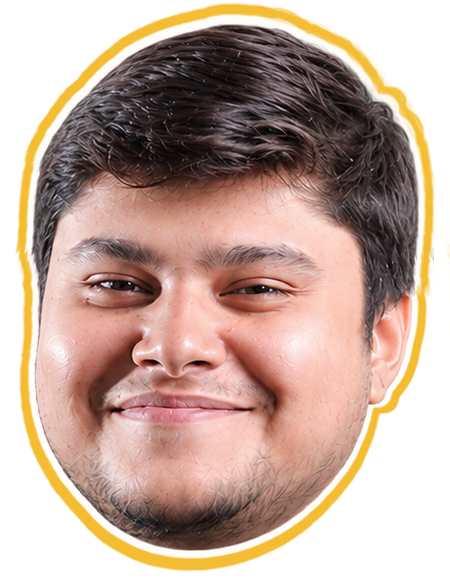
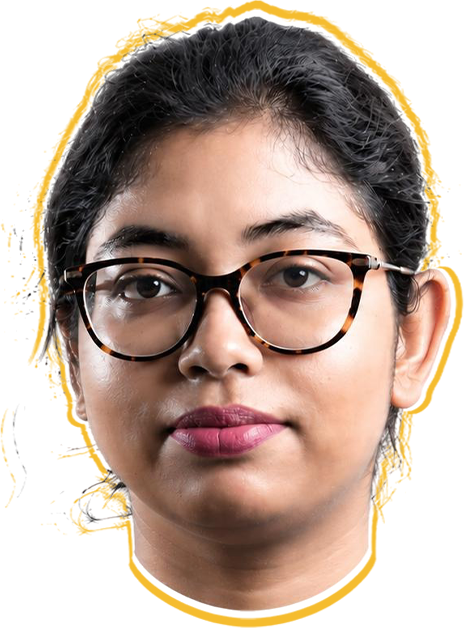
Home page: add three more headshots to the team row
h3, h6 and h7 join h1/h2/h4/h5, so the row is seven of the eight faces
the layout is sized for. Both copies of the row are updated: the static
overlapped stack on desktop, and the looping strip that replaces it
below 991px.

Two CSS changes come with it, neither optional.

The reveal stagger is written out one child at a time and stopped at
nth-child(5), so faces 6 and 7 fell back to delay 0 and arrived before
the staggered row instead of after it. Added at 1.12s and 1.22s.

The marquee duration moves 80s -> 105s. The loop slides the track by
-50%, so one half has to be wider than the visible strip or a gap gets
dragged into view. A set of seven is 518px and the strip is 1047px at
its widest (991px viewport plus the 2 x 28px negative margin that bleeds
it past the card), so two sets would miss by 11px — hence six sets, three
per half, 1554px. 105s holds the original 14.8px/s, so it moves at the
speed it always did.

Verified at 1920/1280/991/768/375: seven faces on one row, 525px fanned
inside a 972px card, and the two halves of the marquee are byte-identical
with the frame before the wrap landing every face on its starting pixel.

Also carries a stray object-fit/semicolon fix in the .wokImg block.

diff --git a/index.html b/index.html
@@ -3806,19 +3806,30 @@
                                      .mh-card-box:hover in main.css). It is sized for up to
                                      eight: 474px resting, 600px hovered, inside a 700px card.
 
-                                     FIVE of the eight are here. assets/images/ holds exactly
-                                     h1-h5 in this cut-out treatment and nothing else — the
-                                     other three faces have no artwork yet. Drop h6/h7/h8.png
-                                     in beside these and add three more <img> lines; no CSS
-                                     change is needed, the row already has the room. -->
+                                     SEVEN of the eight are here — h1-h7, every face that
+                                     exists in this cut-out treatment. An eighth still fits
+                                     (474px resting / 600px hovered inside the 700px card);
+                                     drop h8.png in beside these and add one more <img>.
+
+                                     IF YOU DO, add a `.mh-section.mh-anim .mh-avatars >
+                                     :nth-child(8)` delay in main.css alongside 1-7. Those
+                                     delays are written out one child at a time, so a face
+                                     with no rule of its own gets delay 0 and pops in ahead
+                                     of the staggered row instead of after it. -->
                                 <div class="mh-avatars">
                                     <img src="assets/images/h1.png" alt="" loading="lazy" width="56" height="56"
                                         decoding="async">
                                     <img src="assets/images/h2.png" alt="" loading="lazy" width="56" height="56"
                                         decoding="async">
+                                    <img src="assets/images/h3.png" alt="" loading="lazy" width="56" height="56"
+                                        decoding="async">
                                     <img src="assets/images/h4.png" alt="" loading="lazy" width="56" height="56"
                                         decoding="async">
                                     <img src="assets/images/h5.png" alt="" loading="lazy" width="56" height="56"
+                                        decoding="async">
+                                    <img src="assets/images/h6.png" alt="" loading="lazy" width="56" height="56"
+                                        decoding="async">
+                                    <img src="assets/images/h7.png" alt="" loading="lazy" width="56" height="56"
                                         decoding="async">
                                 </div>
 
@@ -3836,74 +3847,108 @@
                                      clipped off to the right, so lazy loading never fires for
                                      them — the boxes reserve correctly and the pictures stay
                                      blank, which reads as the loop being cut off after the
-                                     first few faces. Costs nothing extra: only four distinct
+                                     first few faces. Costs nothing extra: only seven distinct
                                      files are referenced here however many times they appear,
-                                     and below 991px this strip is the only copy on the page. -->
+                                     and below 991px this strip is the only copy on the page.
+
+                                     SIX sets of seven faces, and the count is not free to
+                                     change. The loop slides the track by -50%, so the two
+                                     halves have to be identical — an ODD number of sets puts
+                                     a seam mid-set and the faces jump. Three sets per half
+                                     is also the floor: at 64px + 10px each, a set is 518px,
+                                     and one half has to cover the widest this strip ever
+                                     gets — 991px of viewport plus 2 x 28px of negative
+                                     margin bleeding it past the card, so 1047px. Two sets
+                                     (1036px) is 11px short of that and drags a gap into
+                                     view; three (1554px) clears it. Change the set count
+                                     and the 105s duration in main.css moves with it. -->
                                 <div class="mh-avatars-marquee" aria-hidden="true">
                                     <div class="mh-avatars-marquee__track">
+                                        <!-- half one: sets 1-3 -->
                                         <img src="assets/images/h1.png" alt="" loading="eager" width="56" height="56"
                                             decoding="async">
                                         <img src="assets/images/h2.png" alt="" loading="eager" width="56" height="56"
+                                            decoding="async">
+                                        <img src="assets/images/h3.png" alt="" loading="eager" width="56" height="56"
                                             decoding="async">
                                         <img src="assets/images/h4.png" alt="" loading="eager" width="56" height="56"
                                             decoding="async">
                                         <img src="assets/images/h5.png" alt="" loading="eager" width="56" height="56"
                                             decoding="async">
-                                        <img src="assets/images/h1.png" alt="" loading="eager" width="56" height="56"
+                                        <img src="assets/images/h6.png" alt="" loading="eager" width="56" height="56"
                                             decoding="async">
-                                        <img src="assets/images/h2.png" alt="" loading="eager" width="56" height="56"
-                                            decoding="async">
-                                        <img src="assets/images/h4.png" alt="" loading="eager" width="56" height="56"
-                                            decoding="async">
-                                        <img src="assets/images/h5.png" alt="" loading="eager" width="56" height="56"
+                                        <img src="assets/images/h7.png" alt="" loading="eager" width="56" height="56"
                                             decoding="async">
                                         <img src="assets/images/h1.png" alt="" loading="eager" width="56" height="56"
                                             decoding="async">
                                         <img src="assets/images/h2.png" alt="" loading="eager" width="56" height="56"
                                             decoding="async">
+                                        <img src="assets/images/h3.png" alt="" loading="eager" width="56" height="56"
+                                            decoding="async">
                                         <img src="assets/images/h4.png" alt="" loading="eager" width="56" height="56"
                                             decoding="async">
                                         <img src="assets/images/h5.png" alt="" loading="eager" width="56" height="56"
+                                            decoding="async">
+                                        <img src="assets/images/h6.png" alt="" loading="eager" width="56" height="56"
+                                            decoding="async">
+                                        <img src="assets/images/h7.png" alt="" loading="eager" width="56" height="56"
                                             decoding="async">
                                         <img src="assets/images/h1.png" alt="" loading="eager" width="56" height="56"
                                             decoding="async">
                                         <img src="assets/images/h2.png" alt="" loading="eager" width="56" height="56"
                                             decoding="async">
+                                        <img src="assets/images/h3.png" alt="" loading="eager" width="56" height="56"
+                                            decoding="async">
                                         <img src="assets/images/h4.png" alt="" loading="eager" width="56" height="56"
                                             decoding="async">
                                         <img src="assets/images/h5.png" alt="" loading="eager" width="56" height="56"
+                                            decoding="async">
+                                        <img src="assets/images/h6.png" alt="" loading="eager" width="56" height="56"
+                                            decoding="async">
+                                        <img src="assets/images/h7.png" alt="" loading="eager" width="56" height="56"
+                                            decoding="async">
+                                        <!-- half two: identical to half one, so -50% lands seamlessly -->
+                                        <img src="assets/images/h1.png" alt="" loading="eager" width="56" height="56"
+                                            decoding="async">
+                                        <img src="assets/images/h2.png" alt="" loading="eager" width="56" height="56"
+                                            decoding="async">
+                                        <img src="assets/images/h3.png" alt="" loading="eager" width="56" height="56"
+                                            decoding="async">
+                                        <img src="assets/images/h4.png" alt="" loading="eager" width="56" height="56"
+                                            decoding="async">
+                                        <img src="assets/images/h5.png" alt="" loading="eager" width="56" height="56"
+                                            decoding="async">
+                                        <img src="assets/images/h6.png" alt="" loading="eager" width="56" height="56"
+                                            decoding="async">
+                                        <img src="assets/images/h7.png" alt="" loading="eager" width="56" height="56"
                                             decoding="async">
                                         <img src="assets/images/h1.png" alt="" loading="eager" width="56" height="56"
                                             decoding="async">
                                         <img src="assets/images/h2.png" alt="" loading="eager" width="56" height="56"
                                             decoding="async">
+                                        <img src="assets/images/h3.png" alt="" loading="eager" width="56" height="56"
+                                            decoding="async">
                                         <img src="assets/images/h4.png" alt="" loading="eager" width="56" height="56"
                                             decoding="async">
                                         <img src="assets/images/h5.png" alt="" loading="eager" width="56" height="56"
+                                            decoding="async">
+                                        <img src="assets/images/h6.png" alt="" loading="eager" width="56" height="56"
+                                            decoding="async">
+                                        <img src="assets/images/h7.png" alt="" loading="eager" width="56" height="56"
                                             decoding="async">
                                         <img src="assets/images/h1.png" alt="" loading="eager" width="56" height="56"
                                             decoding="async">
                                         <img src="assets/images/h2.png" alt="" loading="eager" width="56" height="56"
                                             decoding="async">
-                                        <img src="assets/images/h4.png" alt="" loading="eager" width="56" height="56"
-                                            decoding="async">
-                                        <img src="assets/images/h5.png" alt="" loading="eager" width="56" height="56"
-                                            decoding="async">
-                                        <img src="assets/images/h1.png" alt="" loading="eager" width="56" height="56"
-                                            decoding="async">
-                                        <img src="assets/images/h2.png" alt="" loading="eager" width="56" height="56"
+                                        <img src="assets/images/h3.png" alt="" loading="eager" width="56" height="56"
                                             decoding="async">
                                         <img src="assets/images/h4.png" alt="" loading="eager" width="56" height="56"
                                             decoding="async">
                                         <img src="assets/images/h5.png" alt="" loading="eager" width="56" height="56"
                                             decoding="async">
-                                        <img src="assets/images/h1.png" alt="" loading="eager" width="56" height="56"
+                                        <img src="assets/images/h6.png" alt="" loading="eager" width="56" height="56"
                                             decoding="async">
-                                        <img src="assets/images/h2.png" alt="" loading="eager" width="56" height="56"
-                                            decoding="async">
-                                        <img src="assets/images/h4.png" alt="" loading="eager" width="56" height="56"
-                                            decoding="async">
-                                        <img src="assets/images/h5.png" alt="" loading="eager" width="56" height="56"
+                                        <img src="assets/images/h7.png" alt="" loading="eager" width="56" height="56"
                                             decoding="async">
                                     </div>
                                 </div>

diff --git a/assets/css/main.css b/assets/css/main.css
@@ -3616,7 +3616,8 @@ img.bottom-icon {
    the opposite of what's needed). .start-img's existing height:100% rule
    fills whatever height JS assigns here. */
 .new-age-strat .start-img {
-    height: 100%
+    height: 100%;
+    object-fit: cover;
 }
 
 .bordered {
@@ -13152,6 +13153,19 @@ a.faq-tab .faq-tab-1 p {
     transition-delay: 1.02s;
 }
 
+/* 6 and 7 continue the same 100ms step. Written out per child rather than
+   computed, like the four above — a face with no rule of its own falls back to
+   delay 0 and arrives BEFORE the staggered row instead of after it, which is
+   what the last two headshots did until these were added. Add an :nth-child(8)
+   here at 1.32s if the eighth face ever lands. */
+.mh-section.mh-anim .mh-avatars> :nth-child(6) {
+    transition-delay: 1.12s;
+}
+
+.mh-section.mh-anim .mh-avatars> :nth-child(7) {
+    transition-delay: 1.22s;
+}
+
 .mh-section .mh-avatars--sm img,
 .mh-section .mh-avatars--sm .mh-avatars__count {
     width: 48px;
@@ -13387,12 +13401,16 @@ a.faq-tab .faq-tab-1 p {
            drags empty space into view and the loop shows a gap. At 375px two
            copies were enough; raising the breakpoint to 991 was not just a number
            change, because those same two left a 300px hole at tablet width.
-           So the track carries EIGHT sets of four faces: one copy is four sets,
-           1184px, clear of the 991px ceiling.
-           Duration is then copy-width / speed. 80s lands at ~15px per second, the
+           So the track carries SIX sets of seven faces: one copy is three sets,
+           1554px, clear of the widest this strip gets. Note that ceiling is 1047px,
+           not 991px — .mh-avatars-marquee bleeds itself past the card with
+           `margin: 0 calc(-1 * var(--mh-card-pad))`, so the visible strip is the
+           viewport plus 2 x 28px. Two sets (1036px) would miss it by 11px.
+           Duration is then copy-width / speed. 105s lands at ~15px per second, the
            pace the shorter track ran at — which is why a longer strip needs a much
-           longer duration to look identical rather than faster. */
-        animation: mh-marquee-loop 80s linear infinite;
+           longer duration to look identical rather than faster. (Was 80s for a
+           1184px copy of four faces; same 14.8px/s.) */
+        animation: mh-marquee-loop 105s linear infinite;
     }
 
     .mh-section .mh-avatars-marquee__track img {
